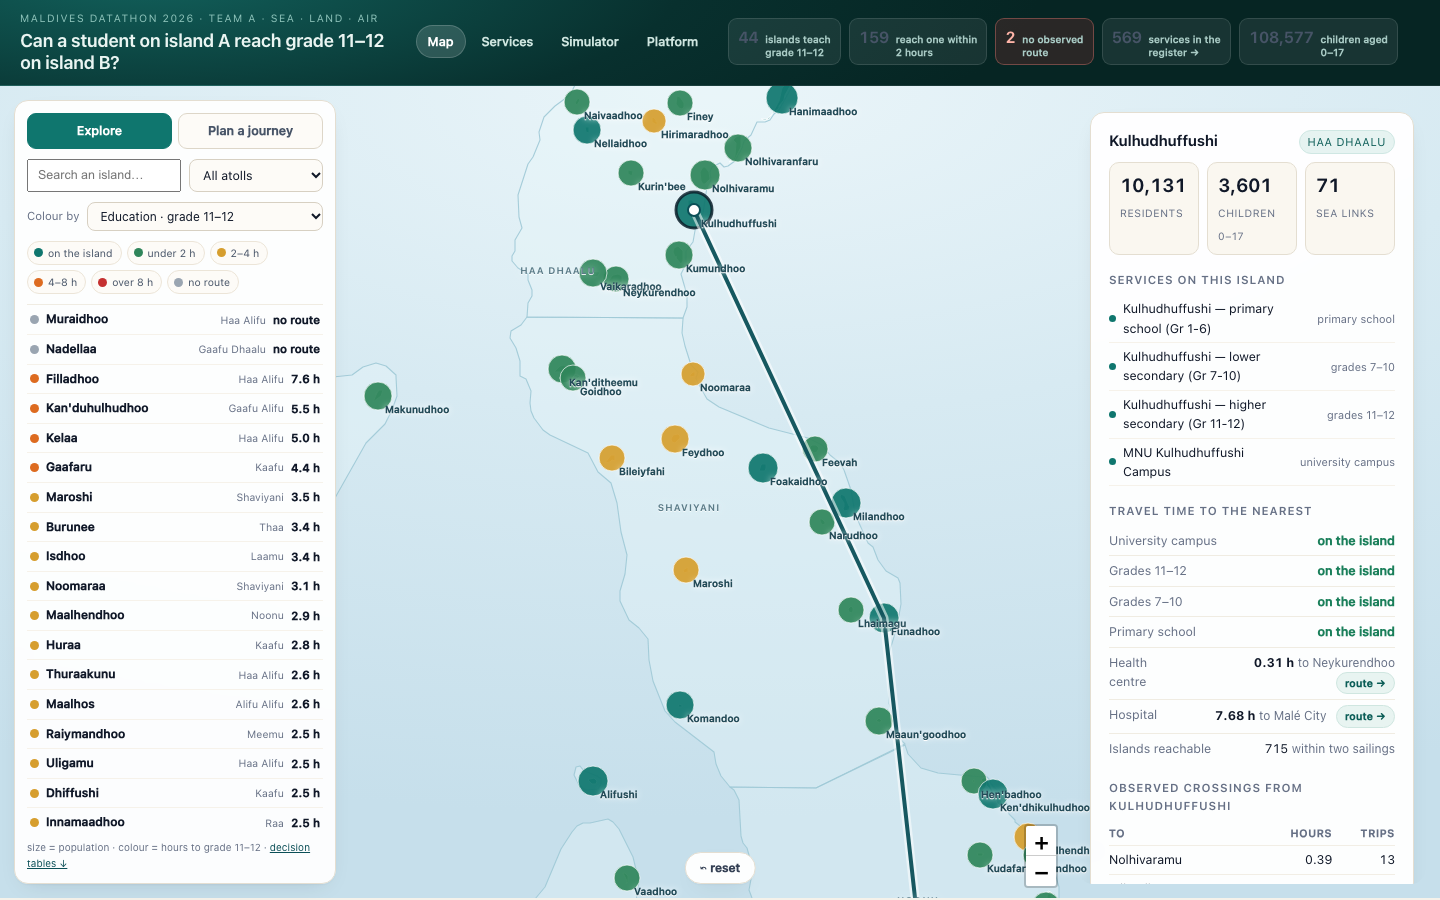
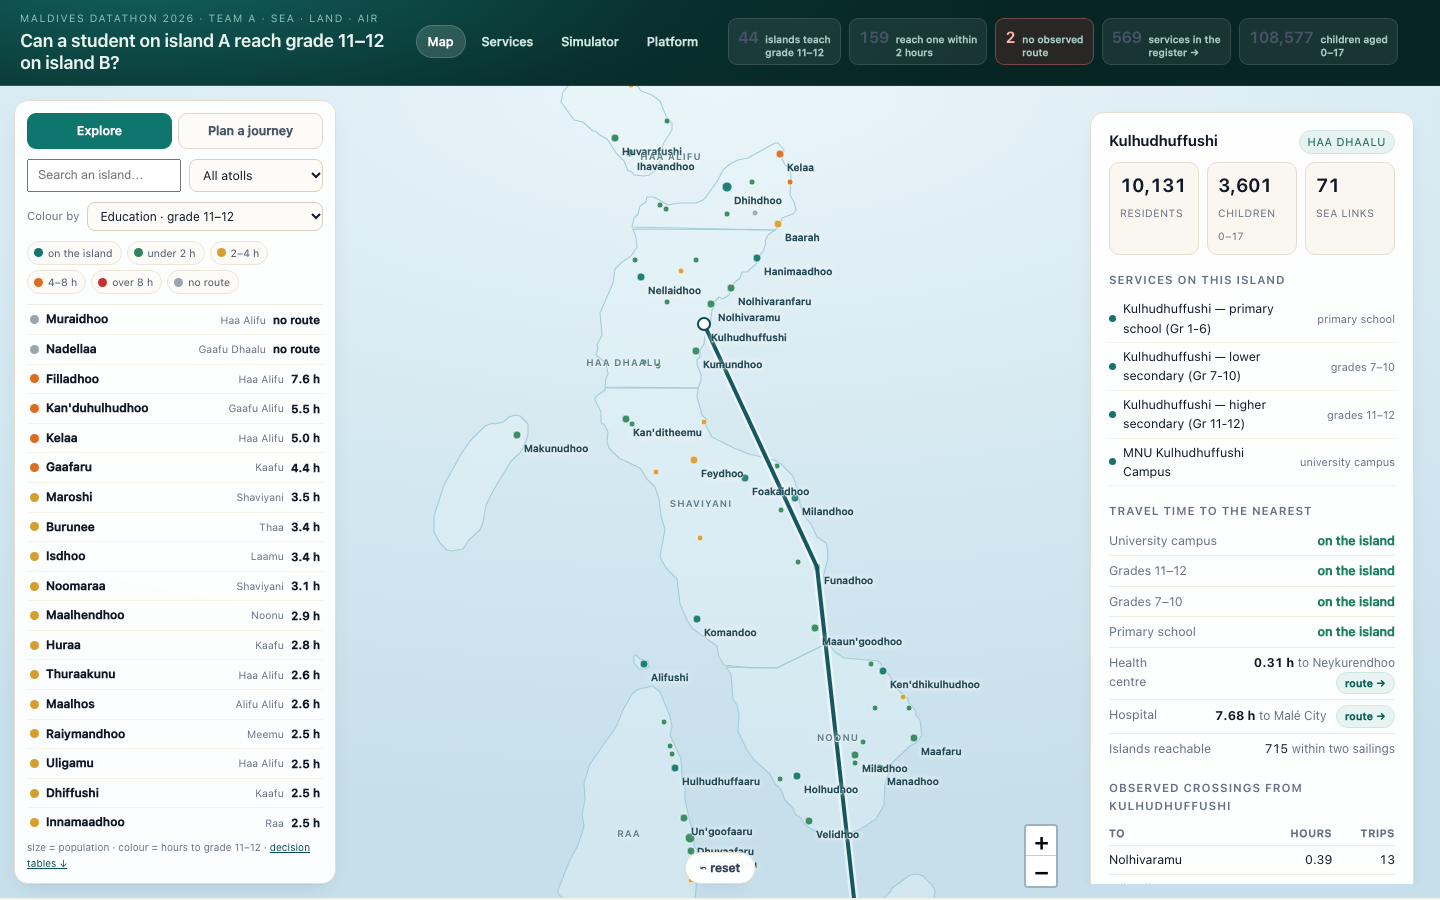
Map: smaller population dots, zoom-damped sizing, two-tier island labels

diff --git a/web/access/templates/access/index.html b/web/access/templates/access/index.html
@@ -164,7 +164,13 @@ const state = {mode:"explore", from:null, to:null, band:null, atoll:"", q:"",
                points:[], byId:new Map(), markers:new Map(), sel:null,
                routeLayer:null, atollBounds:new Map()};
 
-const radius = pop => Math.max(4.5, 3 + 2.6 * Math.log10(1 + pop) - 1.4);
+// marker size: a log scale of population, damped by zoom so the archipelago stays legible
+const radius = (pop, z = map.getZoom()) => {
+  const logp = Math.log10(1 + Math.max(0, pop));
+  const base = 2.3 + Math.max(0, logp - 2.2) * 1.7;       // ~2 px at 160 people, ~6 px at 14,000
+  const damp = z >= 7.5 ? 1 : 0.8;
+  return Math.max(2, base * damp);
+};
 const METRIC_NAME = {
   "education:school_higher_secondary": "grade 11–12",
   "education:college": "a university campus",
@@ -234,7 +240,8 @@ function ensurePolys() {
 function recolorPolys() { if (polyLayer) polyLayer.setStyle(polyStyle); }
 
 const atollLabels = L.layerGroup();
-const nameLabels = L.layerGroup();      // one label per inhabited island, only when there is room
+const nameLabels = L.layerGroup();      // every inhabited island, at the deepest zoom
+const nameLabelsMajor = L.layerGroup(); // only the larger islands, one zoom level earlier
 fetch("/static/access/atolls.geojson").then(r => r.json()).then(gj => {
   const rings = L.geoJSON(gj, {interactive:false, style:{
       color:"#9ec9d6", weight:1.1, opacity:.9, fillColor:"#e8f5f8", fillOpacity:.35
@@ -259,13 +266,14 @@ function syncZoom() {
   }
   if (z >= 7.2) { if (!map.hasLayer(atollLabels)) atollLabels.addTo(map); }
   else if (map.hasLayer(atollLabels)) map.removeLayer(atollLabels);
-  if (z >= 9) { if (!map.hasLayer(nameLabels)) nameLabels.addTo(map); }
+  if (z >= 9.4) { if (!map.hasLayer(nameLabelsMajor)) nameLabelsMajor.addTo(map); }
+  else if (map.hasLayer(nameLabelsMajor)) map.removeLayer(nameLabelsMajor);
+  if (z >= 10.6) { if (!map.hasLayer(nameLabels)) nameLabels.addTo(map); }
   else if (map.hasLayer(nameLabels)) map.removeLayer(nameLabels);
-  // zoomed in, the dots shrink so the coastline underneath has room to show
-  const shrink = z >= 9 ? 0.55 : 1;
+  // resize for this zoom so the dots never merge into a blob
   state.markers.forEach((m, id) => {
     const p = state.byId.get(id);
-    if (p) m.setRadius(Math.max(3, radius(p.pop) * shrink));
+    if (p) m.setRadius(radius(p.pop, z));
   });
 }
 map.on("zoomend", syncZoom);
@@ -297,9 +305,11 @@ fetch("/static/access/islands_points.json").then(r => r.json()).then(pts => {
     state.markers.set(p.id, m);
 
     if (p.pop > 0) {
-      L.marker([p.lat, p.lon], {interactive:false, keyboard:false, icon:L.divIcon({
-          className:"island-label", html:`<span>${p.name}</span>`, iconSize:[0, 0], iconAnchor:[-7, 0]
-        })}).addTo(nameLabels);
+      const lab = L.marker([p.lat, p.lon], {interactive:false, keyboard:false, icon:L.divIcon({
+        className:"island-label", html:`<span>${p.name}</span>`, iconSize:[0, 0], iconAnchor:[-7, 0]
+      })});
+      lab.addTo(nameLabels);
+      if (p.pop >= 800) lab.addTo(nameLabelsMajor);   // fewer names until you are really zoomed in
     }
     if (!state.atollBounds.has(p.atoll)) state.atollBounds.set(p.atoll, L.latLngBounds([]));
     state.atollBounds.get(p.atoll).extend([p.lat, p.lon]);
@@ -516,12 +526,6 @@ function renderList() {
   });
 }
 
-map.on("zoomend", () => {
-  const z = map.getZoom();
-  state.markers.forEach((m, id) => {
-    m.setRadius(z >= 8 ? radius(state.byId.get(id).pop) * 1.5 : radius(state.byId.get(id).pop));
-  });
-});
 document.addEventListener("keydown", e => { if (e.key === "Escape") el("resetmap").click(); });
 </script>
 {% endblock %}
